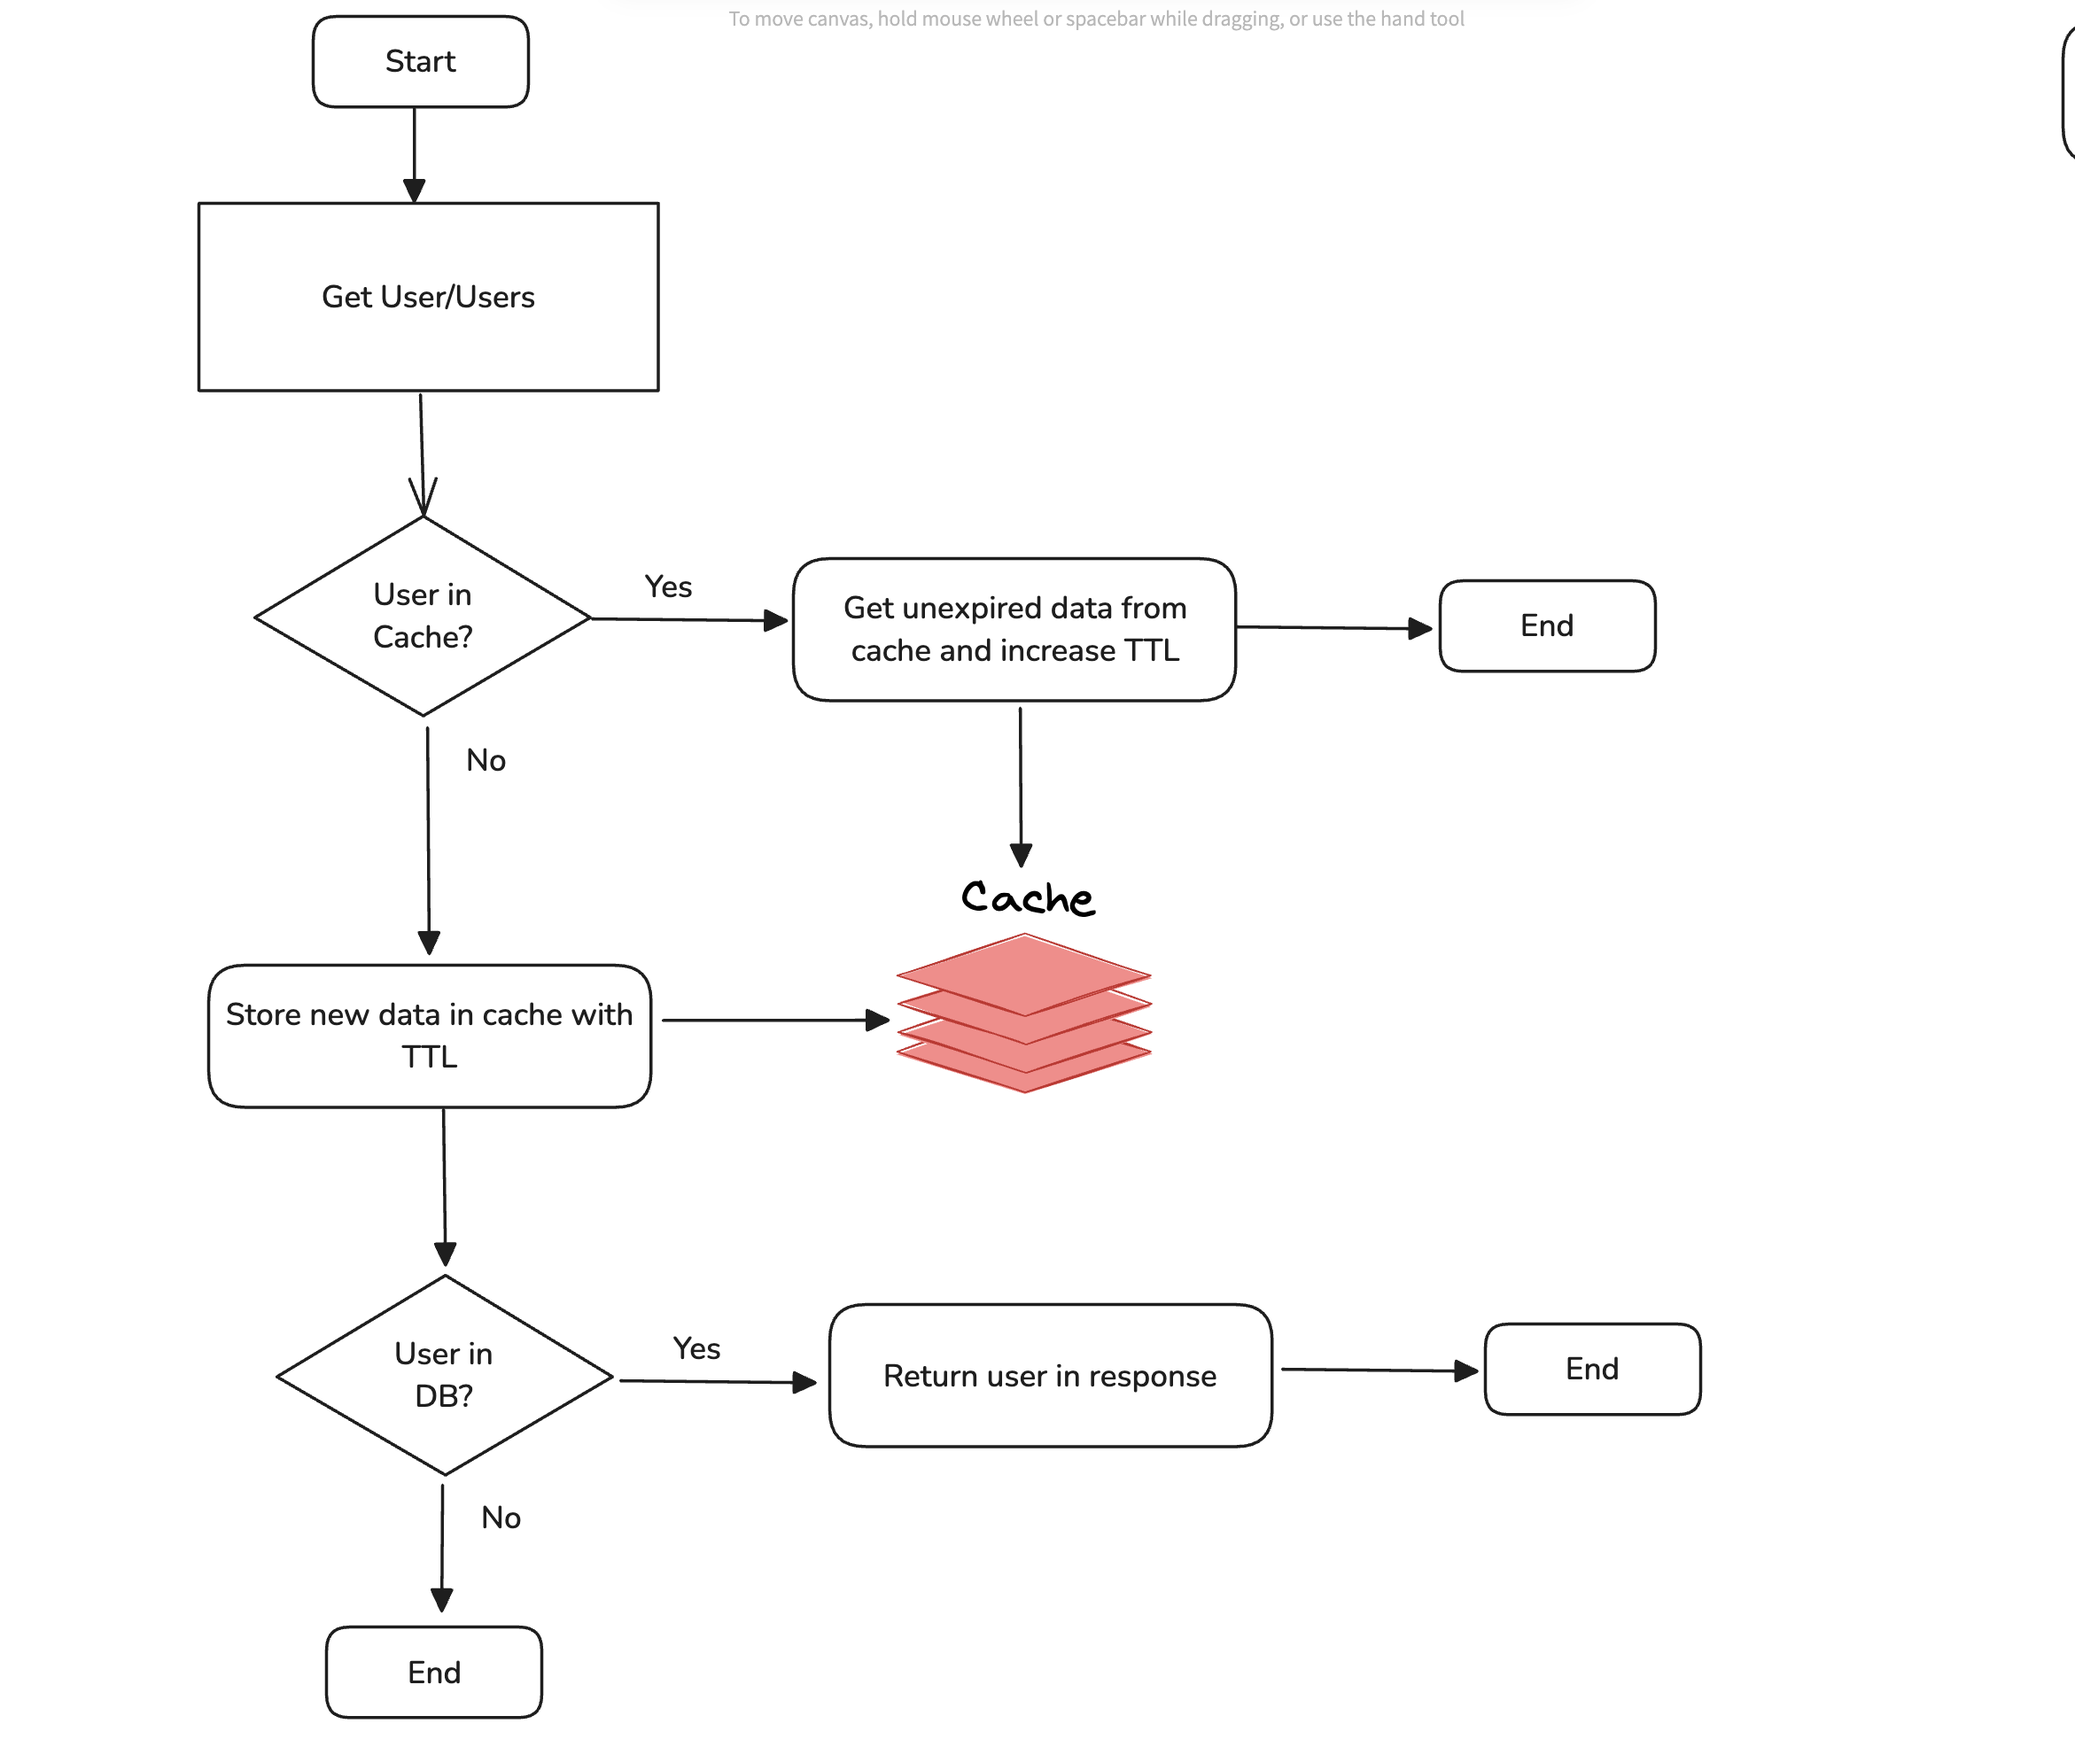
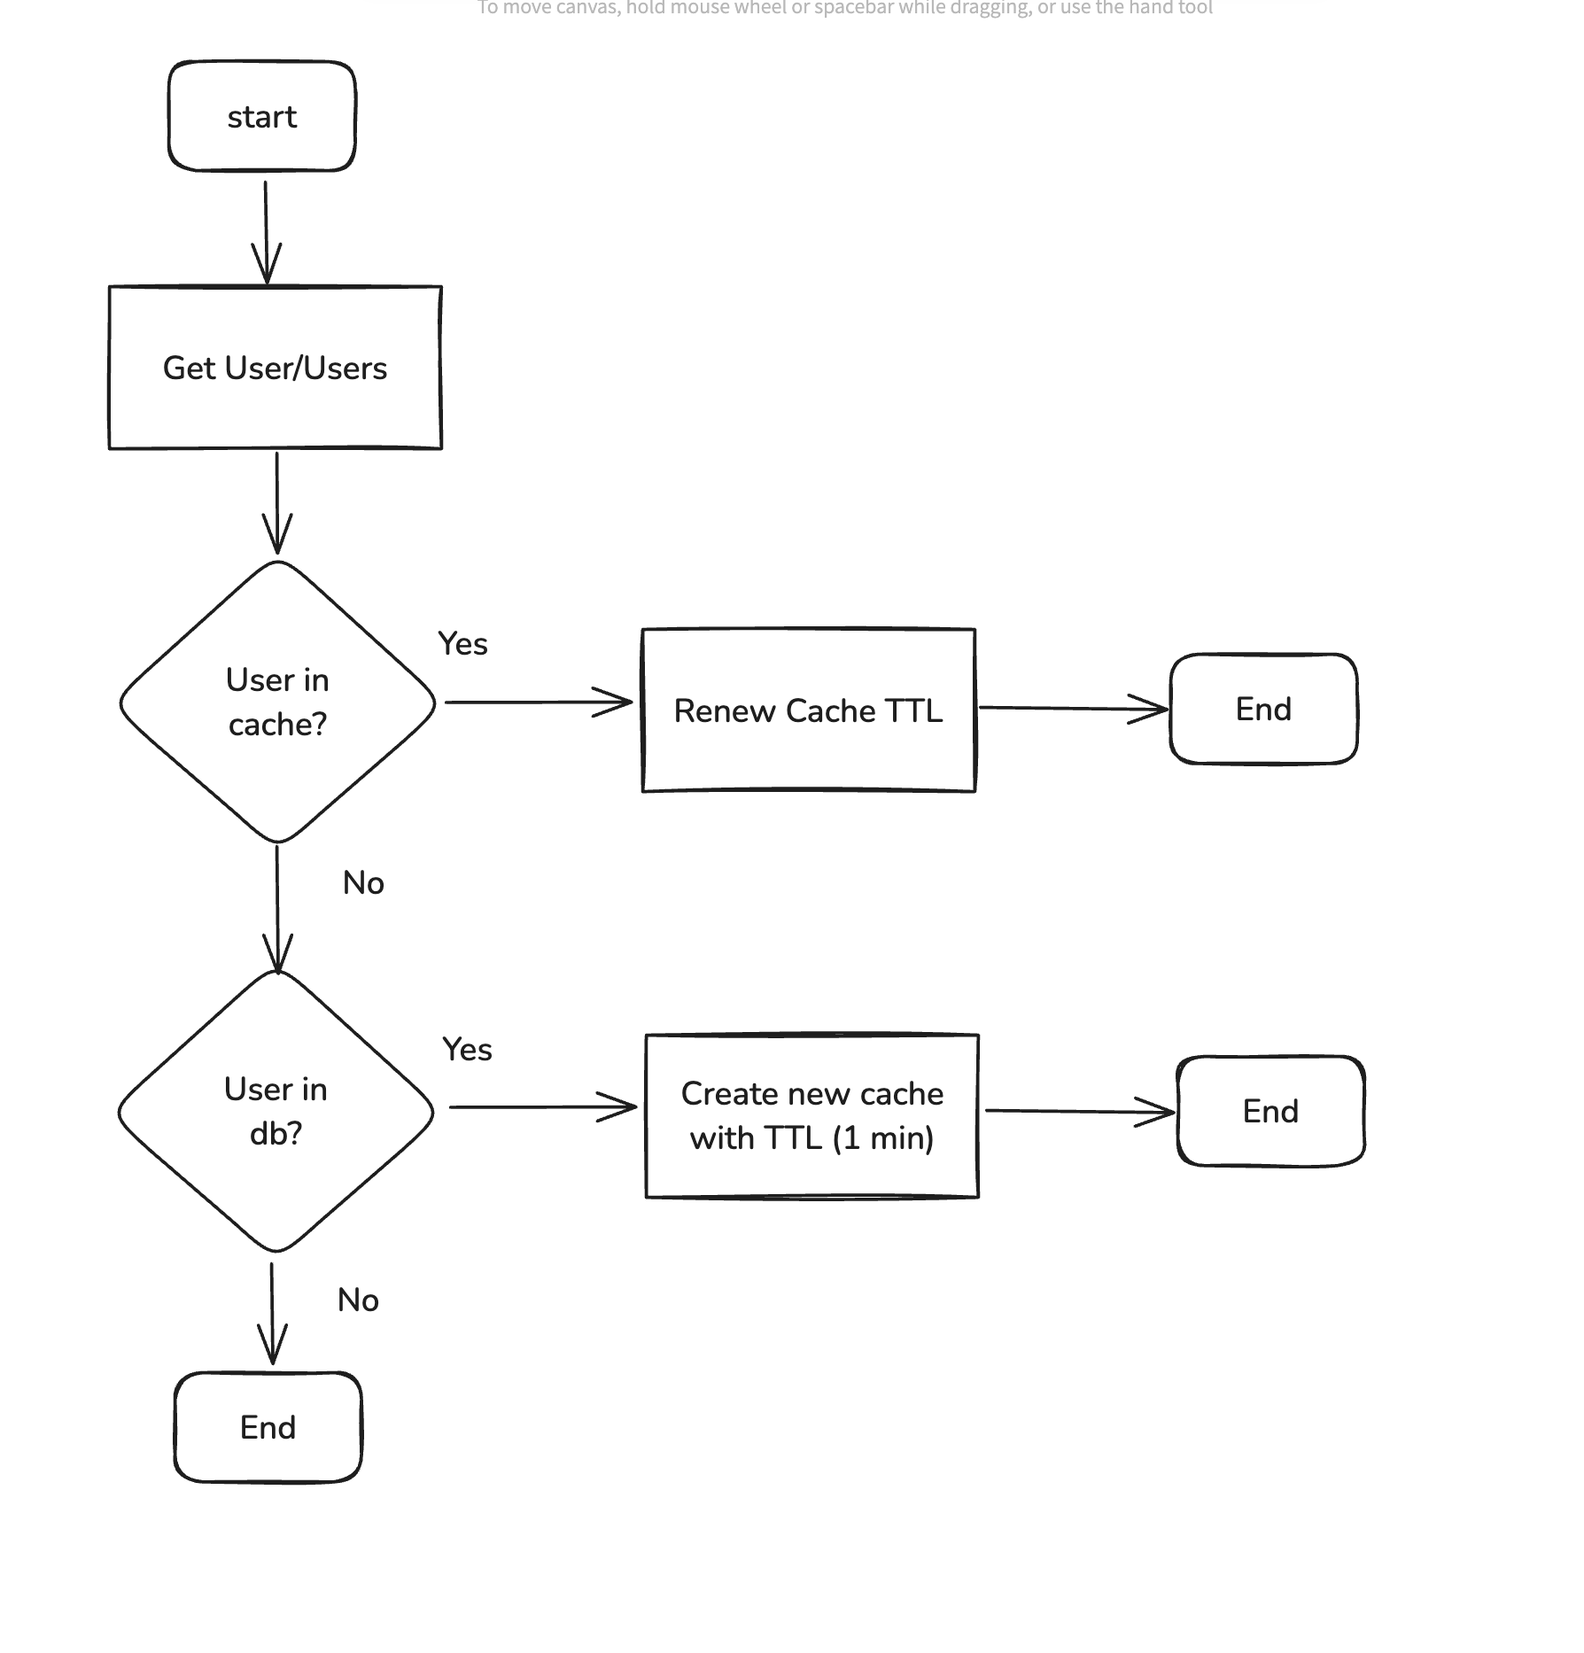
docs: update diagrams

diff --git a/README.md b/README.md
@@ -14,14 +14,10 @@ When a client makes a request to create or update a record through the API,
 the new or updated data is stored in both the database and the cache with Time-To-Live.
 Time-to-live automatically removes stale data from the cache after a specified duration.
 The data will be stored in both cache and in database to keep data in sync.
-(Figure 1.0, 1.1)
+(Figure 1.0)
 
 Figure 1.0
 ![Write-Through](Cache-Write-Through.png)
-
-Figure 1.1
-![Write-Through-2](Cache-Write-Through-2.png)
-
 
 The second caching use case is Cache-Aside.
 When a client requests a single user or multiple users, the system first checks the cache for the data.
@@ -34,11 +30,19 @@ since accessing data from memory is much faster than reading from disk-based sto
 Figure 2.0
 ![Cache-Aside](Cache-Aside-Example.png)
 
-When the cache is full, we use a FIFO (First-In, First-Out) eviction policy.
-This means the oldest item added to the cache is removed first to make space for new items.
+The cache will be cleaned to limit the amount of data stored in-memory with a cron job.
+This cron job will be checked for expired data, and if there is, it will delete cache data from in-memory.
 (Figure 3.0)
 
+
 Figure 3.0
+![Cache-Aside](TTL-Cache.png)
+
+There is also an option to use FIFO (First-In, First-Out) eviction policy when the cache is full.
+This means the oldest item added to the cache is removed first to make space for new items.
+(Figure 4.0)
+
+Figure 4.0
 ![FIFO-CACHE](FIFO-Cache-Eviction-Policy.png)
 
 
